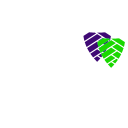
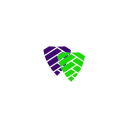
Added Corrupting, Purifying, and Literally Just Flames cards.
Centered all card images. This should help support it for people using smaller resolutions.

Changed region(s): [[0.3125, 0.3438, 0.6875, 0.6562], [0.625, 0.25, 1.0, 0.5312]]

diff --git a/src/main/java/discordInteraction/card/targeted/PurifyingFlames.java b/src/main/java/discordInteraction/card/targeted/PurifyingFlames.java
@@ -1,0 +1,79 @@
+package discordInteraction.card.targeted;
+
+import com.megacrit.cardcrawl.cards.DamageInfo;
+import com.megacrit.cardcrawl.characters.AbstractPlayer;
+import com.megacrit.cardcrawl.core.AbstractCreature;
+import com.megacrit.cardcrawl.powers.RegenPower;
+import discordInteraction.FlavorType;
+import discordInteraction.Main;
+import discordInteraction.battle.TargetType;
+import discordInteraction.command.Result;
+import discordInteraction.util.Combat;
+import net.dv8tion.jda.api.entities.User;
+
+import javax.swing.text.Utilities;
+import java.util.ArrayList;
+
+public class PurifyingFlames extends AbstractCardTargeted {
+    @Override
+    public String getName() {
+        return "Purifying Flames";
+    }
+
+    @Override
+    public int getCost() {
+        return 4;
+    }
+
+    @Override
+    public String getDescriptionForViewerDisplay() {
+        return "Deal 6 damage to 2 targets. This damage cannot kill the target. Than apply Regen 4.";
+    }
+
+    @Override
+    public String getFlavorText() {
+        return "Burning away impurities is good for the soul, but the smell of burning flesh can sting.";
+    }
+
+    @Override
+    public FlavorType[] getFlavorTypes() {
+        return new FlavorType[]{
+                FlavorType.support,
+                FlavorType.oppose
+        };
+    }
+
+    @Override
+    public int getTargetCountMin() {
+        return 2;
+    }
+
+    @Override
+    public int getTargetCountMax() {
+        return 2;
+    }
+
+    @Override
+    public TargetType[] getTargetTypes() {
+        return new TargetType[]{
+                TargetType.player,
+                TargetType.monster,
+                TargetType.viewer
+        };
+    }
+
+    @Override
+    protected Result apply(User user, AbstractPlayer player, ArrayList<AbstractCreature> targets) {
+        for(AbstractCreature target : targets) {
+            int damage = Combat.calculateDamage(Main.battle.getViewerMonster(user), target, 5, DamageInfo.DamageType.NORMAL);
+
+            while (damage >= target.currentHealth + target.currentBlock)
+                damage--;
+
+            target.damage(new DamageInfo(target, damage, DamageInfo.DamageType.NORMAL));
+
+            Combat.applyPower(target, new RegenPower(target, 3));
+        }
+        return new Result(true, "You bathed your targets in purifying flames.");
+    }
+}

diff --git a/src/main/java/discordInteraction/card/targeted/LiterallyJustFlames.java b/src/main/java/discordInteraction/card/targeted/LiterallyJustFlames.java
@@ -1,0 +1,72 @@
+package discordInteraction.card.targeted;
+
+import basemod.patches.com.megacrit.cardcrawl.relics.AbstractRelic.RelicOutlineColor;
+import com.megacrit.cardcrawl.cards.DamageInfo;
+import com.megacrit.cardcrawl.characters.AbstractPlayer;
+import com.megacrit.cardcrawl.core.AbstractCreature;
+import discordInteraction.FlavorType;
+import discordInteraction.Main;
+import discordInteraction.battle.Battle;
+import discordInteraction.battle.TargetType;
+import discordInteraction.command.Result;
+import discordInteraction.util.Combat;
+import net.dv8tion.jda.api.entities.User;
+
+import java.util.ArrayList;
+
+public class LiterallyJustFlames extends AbstractCardTargeted {
+    @Override
+    public String getName() {
+        return "Literally Just Flames";
+    }
+
+    @Override
+    public int getCost() {
+        return 4;
+    }
+
+    @Override
+    public String getDescriptionForViewerDisplay() {
+        return "Deal 6 damage to 2 targets.";
+    }
+
+    @Override
+    public String getFlavorText() {
+        return "Sometimes flames just burn.";
+    }
+
+    @Override
+    public FlavorType[] getFlavorTypes() {
+        return new FlavorType[]{
+                FlavorType.support,
+                FlavorType.oppose
+        };
+    }
+
+    @Override
+    public int getTargetCountMin() {
+        return 2;
+    }
+
+    @Override
+    public int getTargetCountMax() {
+        return 2;
+    }
+
+    @Override
+    public TargetType[] getTargetTypes() {
+        return new TargetType[]{
+                TargetType.player,
+                TargetType.viewer,
+                TargetType.monster
+        };
+    }
+
+    @Override
+    protected Result apply(User user, AbstractPlayer player, ArrayList<AbstractCreature> targets) {
+        for (AbstractCreature target : targets){
+            Combat.applyDamage(Main.battle.getViewerMonster(user), target, 6, DamageInfo.DamageType.NORMAL);
+        }
+        return new Result(true, "You burnt your targets.");
+    }
+}

diff --git a/src/main/java/discordInteraction/card/targeted/CorruptingFlames.java b/src/main/java/discordInteraction/card/targeted/CorruptingFlames.java
@@ -1,0 +1,71 @@
+package discordInteraction.card.targeted;
+
+import com.megacrit.cardcrawl.characters.AbstractPlayer;
+import com.megacrit.cardcrawl.core.AbstractCreature;
+import com.megacrit.cardcrawl.powers.PoisonPower;
+import discordInteraction.FlavorType;
+import discordInteraction.Main;
+import discordInteraction.battle.TargetType;
+import discordInteraction.command.Result;
+import discordInteraction.util.Combat;
+import net.dv8tion.jda.api.entities.User;
+
+import java.util.ArrayList;
+
+public class CorruptingFlames extends AbstractCardTargeted {
+    @Override
+    public String getName() {
+        return "Corrupting Flames";
+    }
+
+    @Override
+    public int getCost() {
+        return 4;
+    }
+
+    @Override
+    public String getDescriptionForViewerDisplay() {
+        return "Heal 5 health to a target. Than apply Poison 3.";
+    }
+
+    @Override
+    public String getFlavorText() {
+        return "The flames of corruption can be tempting, but the power gained is only temporary.";
+    }
+
+    @Override
+    public FlavorType[] getFlavorTypes() {
+        return new FlavorType[]{
+                FlavorType.support,
+                FlavorType.oppose
+        };
+    }
+
+    @Override
+    public int getTargetCountMin() {
+        return 2;
+    }
+
+    @Override
+    public int getTargetCountMax() {
+        return 2;
+    }
+
+    @Override
+    public TargetType[] getTargetTypes() {
+        return new TargetType[]{
+                TargetType.player,
+                TargetType.viewer,
+                TargetType.monster
+        };
+    }
+
+    @Override
+    protected Result apply(User user, AbstractPlayer player, ArrayList<AbstractCreature> targets) {
+        for (AbstractCreature target : targets){
+            target.heal(5);
+            Combat.applyPower(target, new PoisonPower(target, Main.battle.getViewerMonster(user), 3));
+        }
+        return new Result(true, "You drowned your targets in corrupting flames.");
+    }
+}
